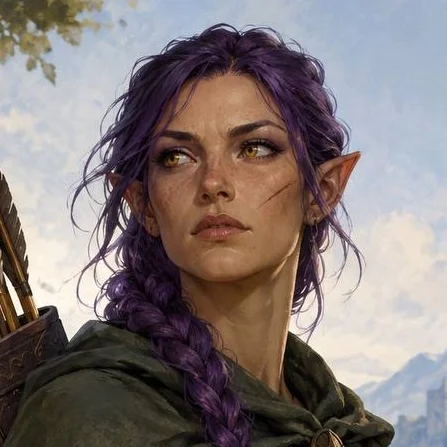
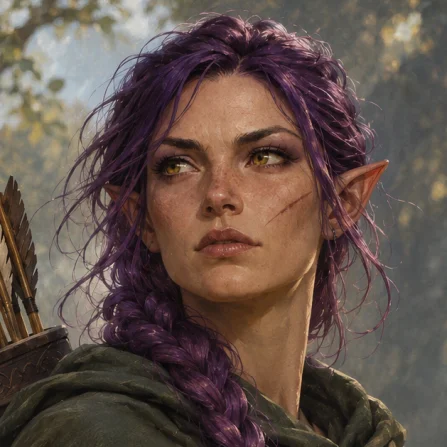
Retinatura a blocchi (meno ricostruzioni nell'editor), niente warning sulla maschera dell'acqua, immagini webp di Anarien e dei famigli, pillola Famiglio rivista

diff --git a/src/app/game/map/wall-hatch.ts b/src/app/game/map/wall-hatch.ts
@@ -1,13 +1,30 @@
-import { Graphics, GraphicsContext } from 'pixi.js';
+import { Container, Graphics, GraphicsContext } from 'pixi.js';
 import { CELL_SIZE, WALL_HATCH, WALL_WIDTH_PX } from '../constants';
 import { LINE, theme } from '../theme';
 
-/** I disegni già calcolati: la retinatura dipende solo dalle caselle dei tile, dalla distanza fra le linee (cioè dallo zoom) e dai colori, quindi si riusa finché non cambiano (l'anteprima di un tile in mano la richiede a ogni movimento). */
-const cache = new Map<string, GraphicsContext>();
+/**
+ * La retinatura è divisa in blocchi di `CHUNK` × `CHUNK` caselle, ognuno con il suo disegno: spostare un tile (l'editor rifà la mappa a ogni movimento del mouse) cambia solo i blocchi
+ * vicini, gli altri riusano il disegno che hanno già, invece di ricostruire decine di migliaia di tratti.
+ */
+const CHUNK = 8;
+/** Un blocco dipende dalle caselle dei tile fino a 2 caselle fuori da sé (il vuoto accanto a un tile, e i tile accanto a quel vuoto). */
+const CHUNK_REACH = 2;
 
-/** I disegni vivi, con le loro caselle: quando lo zoom cambia livello di dettaglio si rimette in ognuno il disegno con le linee giuste. */
+/** I disegni già calcolati: ogni blocco dipende solo dalle sue caselle, dalla distanza fra le linee (cioè dallo zoom) e dai colori, quindi si riusa finché non cambiano. */
+const cache = new Map<string, GraphicsContext>();
+const CACHE_MAX = 600;
+
+interface Chunk {
+  /** Il blocco in caselle: da (x0, y0) incluso a (x1, y1) escluso. */
+  region: { x0: number; y0: number; x1: number; y1: number };
+  /** Le caselle di tile che contano per questo blocco, ordinate (servono per la chiave). */
+  cells: ReadonlySet<string>;
+  id: string;
+}
+
+/** I disegni vivi, con il loro blocco: quando lo zoom cambia livello di dettaglio si rimette in ognuno il disegno con le linee giuste. */
 const live = new Set<Graphics>();
-const sources = new WeakMap<Graphics, ReadonlySet<string>>();
+const sources = new WeakMap<Graphics, Chunk>();
 
 /** Lo zoom di adesso, dato dalla camera (`setHatchZoom`), e quante linee gli corrispondono. */
 let currentSpacing = spacingAt(1);
@@ -35,20 +52,40 @@ export function setHatchZoom(zoom: number) {
 }
 
 function apply(g: Graphics) {
-  const cells = sources.get(g);
-  g.visible = currentSpacing > 0 && !!cells;
-  if (g.visible && cells) g.context = contextFor(cells, currentSpacing);
+  const chunk = sources.get(g);
+  g.visible = currentSpacing > 0 && !!chunk;
+  if (g.visible && chunk) g.context = contextFor(chunk, currentSpacing);
 }
 
-function contextFor(cells: ReadonlySet<string>, spacing: number): GraphicsContext {
-  const key = `${theme.color.linePrimary}|${theme.alpha.wallHatch}|${spacing}|${[...cells].sort().join(';')}`;
+function contextFor(chunk: Chunk, spacing: number): GraphicsContext {
+  const key = `${theme.color.linePrimary}|${theme.alpha.wallHatch}|${spacing}|${chunk.id}|${[...chunk.cells].sort().join(';')}`;
   let ctx = cache.get(key);
   if (!ctx) {
-    ctx = build(cells, spacing);
-    if (cache.size >= 9) cache.delete(cache.keys().next().value!);
+    ctx = build(chunk, spacing);
+    if (cache.size >= CACHE_MAX) cache.delete(cache.keys().next().value!);
     cache.set(key, ctx);
   }
   return ctx;
+}
+
+/** Divide le caselle dei tile nei blocchi che le vedono (una casella conta anche per i blocchi a meno di `CHUNK_REACH` caselle da lei). */
+function chunksOf(cells: ReadonlySet<string>): Chunk[] {
+  const byId = new Map<string, Chunk>();
+  for (const k of cells) {
+    const [cx, cy] = k.split(',').map(Number);
+    for (let bx = Math.floor((cx - CHUNK_REACH) / CHUNK); bx <= Math.floor((cx + CHUNK_REACH) / CHUNK); bx++) {
+      for (let by = Math.floor((cy - CHUNK_REACH) / CHUNK); by <= Math.floor((cy + CHUNK_REACH) / CHUNK); by++) {
+        const id = `${bx},${by}`;
+        let chunk = byId.get(id);
+        if (!chunk) {
+          chunk = { id, region: { x0: bx * CHUNK, y0: by * CHUNK, x1: (bx + 1) * CHUNK, y1: (by + 1) * CHUNK }, cells: new Set<string>() };
+          byId.set(id, chunk);
+        }
+        (chunk.cells as Set<string>).add(k);
+      }
+    }
+  }
+  return [...byId.values()];
 }
 
 /**
@@ -56,16 +93,20 @@ function contextFor(cells: ReadonlySet<string>, spacing: number): GraphicsContex
  * angoli) che dalla faccia esterna del muro arrivano fino alla prima fila di puntini della griglia (a una cella dal bordo del tile) e lì finiscono, sfumando piano. Il risultato è un
  * contorno soffuso che si scioglie nello sfondo a puntini. Sta sotto i muri e si disegna solo nel vuoto accanto alle caselle dei tile (`cells`, chiavi "x,y"); quante linee ha dipende dallo zoom.
  */
-export function drawWallHatch(cells: ReadonlySet<string>): Graphics {
-  const g = new Graphics(contextFor(cells, currentSpacing || WALL_HATCH.lod[WALL_HATCH.lod.length - 1].spacing));
-  sources.set(g, cells);
-  live.add(g);
-  apply(g);
-  return g;
+export function drawWallHatch(cells: ReadonlySet<string>): Container {
+  const root = new Container();
+  for (const chunk of chunksOf(cells)) {
+    const g = new Graphics();
+    sources.set(g, chunk);
+    live.add(g);
+    apply(g);
+    root.addChild(g);
+  }
+  return root;
 }
 
 /** I tratti della retinatura, per livello di opacità (0 il più tenue): x0, y0, x1, y1 in pixel del mondo. */
-export function hatchBatches(cells: ReadonlySet<string>, spacing: number = WALL_HATCH.lod[WALL_HATCH.lod.length - 1].spacing): number[][] {
+export function hatchBatches(cells: ReadonlySet<string>, spacing: number = WALL_HATCH.lod[WALL_HATCH.lod.length - 1].spacing, region?: Chunk['region']): number[][] {
   const has = (x: number, y: number) => cells.has(`${x},${y}`);
   const { step, levels } = WALL_HATCH;
   const C = CELL_SIZE;
@@ -83,6 +124,7 @@ export function hatchBatches(cells: ReadonlySet<string>, spacing: number = WALL_
 
   for (const k of voids) {
     const [vx, vy] = k.split(',').map(Number);
+    if (region && (vx < region.x0 || vx >= region.x1 || vy < region.y0 || vy >= region.y1)) continue; // di un altro blocco
     // Le caselle di tile intorno: oltre queste, la distanza dal tile è già maggiore di una cella.
     const near: [number, number][] = [];
     for (let dy = -1; dy <= 1; dy++) for (let dx = -1; dx <= 1; dx++) if (has(vx + dx, vy + dy)) near.push([(vx + dx) * C, (vy + dy) * C]);
@@ -125,10 +167,10 @@ export function hatchBatches(cells: ReadonlySet<string>, spacing: number = WALL_
   return batches;
 }
 
-function build(cells: ReadonlySet<string>, spacing: number): GraphicsContext {
+function build(chunk: Chunk, spacing: number): GraphicsContext {
   const g = new Graphics();
   const { levels } = WALL_HATCH;
-  const batches = hatchBatches(cells, spacing);
+  const batches = hatchBatches(chunk.cells, spacing, chunk.region);
   for (let level = 0; level < levels; level++) {
     const seg = batches[level];
     if (!seg.length) continue;

diff --git a/src/app/ui/familiar-pill.component.ts b/src/app/ui/familiar-pill.component.ts
@@ -4,26 +4,26 @@ import { TranslatePipe } from '../i18n/translate.pipe';
 import { PictureComponent } from './picture.component';
 
 /**
- * La pillola "Famiglio" delle card degli eroi che ne hanno uno: bordo del colore dei famigli (`--c-familiar`), la parola tutta a sinistra e, sopra la pillola, tutto a destra, il segnalino
- * tondo del famiglio (con il suo contorno azzurro). Chi la usa la posiziona.
+ * La pillola "Famiglio" delle card degli eroi che ne hanno uno: bordo del colore dei famigli (`--c-familiar`), il segnalino tondo del famiglio (con il suo contorno azzurro) sopra la pillola, tutto a sinistra, e la parola "Famiglio", azzurra, a destra. Chi la usa la posiziona.
  */
 @Component({
   selector: 'app-familiar-pill',
   imports: [TranslatePipe, PictureComponent],
   changeDetection: ChangeDetectionStrategy.OnPush,
   template: `
-    <span class="label">{{ (familiars().length > 1 ? 'familiar.many' : 'familiar.one') | t }}</span>
     <span class="tokens">
       @for (f of familiars(); track f.id) {
         <span class="token" [title]="f.name"><app-picture [src]="f.image" icon="pets" [iconSize]="16" /></span>
       }
     </span>
+    <span class="label">{{ (familiars().length > 1 ? 'familiar.many' : 'familiar.one') | t }}</span>
   `,
   styles: `
-    :host { position: relative; display: flex; align-items: center; justify-content: space-between; box-sizing: border-box; height: 30px; padding: 0 0 0 12px; border-radius: var(--radius-1); background: var(--c-bg); border: 1px solid var(--c-familiar); color: var(--c-text); font: 600 12px/1 var(--font-ui); letter-spacing: 0; text-transform: none; }
-    .tokens { display: inline-flex; flex-direction: row-reverse; margin-right: 6px; }
+    :host { position: relative; display: flex; align-items: center; justify-content: space-between; box-sizing: border-box; height: 30px; padding: 0 12px 0 0; border-radius: var(--radius-1); background: var(--c-bg); border: 1px solid var(--c-familiar); color: var(--c-familiar); font: 600 12px/1 var(--font-ui); letter-spacing: 0; text-transform: none; }
+    .label { color: var(--c-familiar); }
+    .tokens { display: inline-flex; flex-direction: row; margin-left: 6px; }
     /* Il segnalino sporge un po' sopra e sotto la pillola. */
-    .token { width: 40px; height: 40px; margin-left: -14px; border-radius: var(--radius-round); overflow: hidden; box-sizing: border-box; border: 2px solid var(--c-familiar); background: var(--c-surface); box-shadow: 0 2px 6px rgba(0, 0, 0, 0.6); display: block; }
+    .token { width: 40px; height: 40px; margin-left: -14px; border-radius: var(--radius-round); overflow: hidden; box-sizing: border-box; border: 1px solid var(--c-familiar); background: var(--c-surface); box-shadow: 0 2px 6px rgba(0, 0, 0, 0.6); display: block; }
     .token:first-child { margin-left: 0; }
   `,
 })

diff --git a/src/app/editor/map-layer.ts b/src/app/editor/map-layer.ts
@@ -174,7 +174,7 @@ export class EditorMapLayer {
         const c = { x: (t.x + t.def.size.w / 2) * CELL_SIZE, y: (t.y + t.def.size.h / 2) * CELL_SIZE };
         addItem(group, 0, REVEAL.tileItemMs, true, c, Math.hypot(c.x - center.x, c.y - center.y));
       });
-      parts.hatch.destroy(); // la retinatura non fa parte dell'animazione delle tessere: torna con il disegno unico
+      parts.hatch.destroy({ children: true }); // la retinatura non fa parte dell'animazione delle tessere: torna con il disegno unico
       this.container.addChildAt(tilesLayer, 0);
       this.holder.visible = false; // il disegno unico torna a fine animazione delle tessere
     }
@@ -184,7 +184,11 @@ export class EditorMapLayer {
     const roots = this.container.children.filter((c) => c !== this.holder && c !== tilesLayer && !previews.has(c));
     const tokensStart = REVEAL.tileSpreadMs + REVEAL.tileItemMs;
     for (const node of roots.flatMap((r) => (r.children.length ? r.children : [r])).filter((n) => !n.destroyed)) {
+      // Un nodo con la maschera fuori da sé (la campitura dell'acqua) farebbe avvisare Pixi: le misure si prendono senza maschera.
+      const mask = node.mask;
+      node.mask = null;
       const b = node.getLocalBounds();
+      node.mask = mask;
       if (b.width <= 0 && b.height <= 0) continue; // vuoto (un'anteprima, un livello senza niente)
       const c = { x: b.x + b.width / 2, y: b.y + b.height / 2 };
       const dist = Math.hypot(node.x + c.x - center.x, node.y + c.y - center.y);

diff --git a/src/app/game/map/map-view.ts b/src/app/game/map/map-view.ts
@@ -70,11 +70,11 @@ export function createMapParts(
   noCracks?: ReadonlySet<string>,
   extraWalls: readonly WallSegment[] = [],
   scenery: SceneryContext = {},
-): { floors: Graphics[]; sceneries: Container[]; walls: Graphics; hatch: Graphics } {
+): { floors: Graphics[]; sceneries: Container[]; walls: Graphics; hatch: Container } {
   const { walls, passages } = buildWalls(placed);
   const cells = allCells(placed);
   return {
-    hatch: WALL_HATCH.enabled ? drawWallHatch(cells) : new Graphics(),
+    hatch: WALL_HATCH.enabled ? drawWallHatch(cells) : new Container(),
     floors: placed.map((tile) => drawFloor(tile, seed, tile === highlight, noCracks)),
     sceneries: placed.map((tile) => drawScenery(tile, seed, { skip: noCracks, ...scenery })),
     walls: drawWalls({ walls, passages }, extraWalls, PERIMETER_WALLS_OUTSIDE ? cells : null),

diff --git a/CLAUDE.md b/CLAUDE.md
@@ -57,7 +57,7 @@ Le immagini di riferimento servono solo come ispirazione di stile: mai ricalcarl
 - Regole in `docs/REGOLE.md`, sezione 2g. **Non sono pedine**: stanno in `GameState.familiars` (`Familiar` `{id, owner, cell}`, `game/familiars/familiar.ts`, salvati nello snapshot) e le loro schede in `GameState.familiarDefs` (`public/familiars/<id>.json`, elencate in `index.json`: `id`, `name`, `speed`, `image`, `abilityName?`, `ability?`; francor, nero (il Corvo, era Boggs), ying e yang (due gatti, erano Mata e Kata, con la stessa immagine `portrait` ma due segnalini); velocità e testi provvisori, tranne i gatti a 6). Così non bloccano, non si attaccano e non contano come eroi senza codice in più.
 - Arrivano da un effetto `{ "kind": "familiar", "ids": [...] }` nella scheda dell'eroe (Francor per Emeraldine) o in una carta abilità (Boggs, Mata e Kata): `spawnFamiliars` (`state/familiars.ts`, a ogni `showHud` quando la partita è cominciata) li mette nella casella del padrone. Dopo il turno di un eroe (`pass` in `game-scene`) si sposta ognuno dei suoi famigli (`familiarPhase`): area di movimento come quella degli eroi ma azzurra (`FamiliarsView.showReach`: solo il contorno che pulsa piano, al passaggio del mouse il percorso; `familiarReach`: `reachable` senza nemici come ostacolo, senza salti, con le scale a costo 0), tocco sulla casella o "Passa" (anche il tasto Invio); solo caselle già esplorate. A inizio turno del famiglio la camera si sposta su di lui (solo il pan, `focusCell`) e mentre cammina lo segue come con un eroe (`FamiliarsView.movingWorldPos`). Il messaggio è `app-familiar-bar` (`ui/familiar-bar.component.ts`): stesso posto e stessa larghezza dei comandi dell'eroe (che intanto si nascondono), bordo del colore dei famigli, tasto Passa con l'icona di quello degli eroi.
 - Grafica: `FamiliarsView` (`game/familiars/familiars-view.ts`, sopra le pedine): tondo con contorno azzurro (`color.familiar`, `--c-familiar`) se solo nella casella, in più disposti da `familiarSlots` (2 affiancati, 3 a triangolo, 4 in griglia, 5+ con "+N"; con una pedina sopra, una colonna di badge a sinistra). Nella scheda dell'eroe la sezione "Famigli" mostra una card per famiglio (`app-familiar-card`: immagine, nome, velocità e descrizione dell'abilità; i portati come Zanna per primi), e nel catalogo componenti la categoria "Famigli" (`app-familiar-card`).
-- Una carta eroe che dà un famiglio (scheda con effetto `familiar`: Emeraldine) lo mostra già nella scelta degli eroi e nella sala d'attesa: `app-familiar-pill` (`ui/familiar-pill.component.ts`), una pillola con il bordo `--c-familiar`, la scritta "Famiglio" a sinistra e, sopra, a destra, il segnalino tondo; sta sopra la riga dei valori in basso (`familiarsOfSheet`). Le immagini dei famigli sono in `public/familiars/<id>-token.webp` (quadrata) e `-portrait.webp`; quelle di Francor sono provvisorie.
+- Una carta eroe che dà un famiglio (scheda con effetto `familiar`: Emeraldine) lo mostra già nella scelta degli eroi e nella sala d'attesa: `app-familiar-pill` (`ui/familiar-pill.component.ts`), una pillola con il bordo `--c-familiar`, il segnalino tondo a sinistra, sopra, e la scritta "Famiglio" azzurra a destra; sta sopra la riga dei valori in basso (`familiarsOfSheet`). Le immagini dei famigli sono in `public/familiars/<id>-token.webp` (quadrata) e `-portrait.webp`; quelle di Francor sono provvisorie.
 - Eccezioni a dati (`effects` della scheda, `familiarHas`): `summonSight` (Francor: `familiarSightCells` in `summonCells`), `fly` + `weaken` (Nero: `familiarReach` con `passThrough`, `weakening` in `armorOf`, nell'attacco mirato e in Schivare), `carry` (Ying e Yang: `state/familiar-carry.ts`, menu contestuale del famiglio con Raccogli, Dai a, Lascia a terra; ogni azione costa 1 punto del famiglio, lo spostamento ha come punti la velocità). Nessun limite di famigli per casella: la disposizione grafica è in `familiarSlots` (`familiars-view.ts`; vedi REGOLE.md 2g). **Famigli portati** (Zanna, carta di Combattimento con effetto `startItem`): oggetto trasportato (`carried`, `slotless`, `giveCost` 2, effetto `onHit` Bruciare in `applyAttack`) con scheda famiglio collegata (`FamiliarDef.item`); `FamiliarsView` li mostra come primo famiglio nella casella di chi li porta e ne segue la pedina (`PiecesController.worldPosOf`), e nella scheda dell'eroe sono i primi dell'elenco. Un famiglio "da trasportare" che dà un dado potere in più è l'alternativa scartata per ora.
 
 ## Ruoli
@@ -175,7 +175,7 @@ Aspetto da disegno tecnico: una mappa CAD, come un blueprint su una tavola lumin
   contorno sottile. Uno dei pochi elementi colorati, perché è interagibile.
 - Muro: doppia linea chiara sottile con un vuoto scuro in mezzo, spesso. Non deve sembrare fatto
   di mattoni. Gli angoli sono pieni (la linea sporge a coprire lo spigolo).
-  **Retinatura di contorno** (`map/wall-hatch.ts`, `WALL_HATCH` in `constants.ts`, token `alpha.wallHatch`): fuori dai muri perimetrali, linee sottilissime oblique (45°, `x + y = s`, una ogni `spacing` = 9 px, allineate al mondo così proseguono uguali attorno agli angoli) che dalla faccia esterna del muro arrivano fino alla **prima fila di puntini della griglia** (a una cella dal bordo del tile) e lì finiscono; l'opacità sfuma in `levels` = 6 gradini dal muro ai puntini, così il contorno è soffuso e si scioglie nello sfondo a puntini, come nei disegni architettonici. Si calcola per le caselle vuote accanto (anche in diagonale) a un tile, misurando la distanza dal tile più vicino a pezzetti di 4 px; sta sotto i muri (`createMapParts().hatch`) e il disegno si riusa finché le caselle e i colori non cambiano (`GraphicsContext` in cache: l'anteprima di un tile in mano lo chiede a ogni movimento). Non c'è dove i muri sono condivisi, né sulle scale e i muri d'autore. `WALL_HATCH.enabled` a `false` la spegne. **Dipende dallo zoom, con più livelli di dettaglio** (`WALL_HATCH.lod`, `setHatchZoom` in `map/wall-hatch.ts`, chiamata dalla camera dell'editor e da quella della partita ogni volta che cambia la scala del mondo): sotto zoom 0,4 non ci sono linee, da 0,4 una ogni 36 px, da 0,6 una ogni 18, da 0,85 una ogni 9 (ogni livello contiene le linee di quello prima); si cambia disegno solo passando da un livello all'altro (i `GraphicsContext` sono in cache per livello e quelli vivi vengono aggiornati). Lo zoom lo dà la camera, non il disegno, così un disegno nuovo (l'editor li rifà a ogni movimento del mouse) parte già col livello giusto e da lontano non lampeggia. Ancora da fare: in partita disegnarla solo accanto alle caselle esplorate (oggi si vede anche attorno a quelle non esplorate).
+  **Retinatura di contorno** (`map/wall-hatch.ts`, `WALL_HATCH` in `constants.ts`, token `alpha.wallHatch`): fuori dai muri perimetrali, linee sottilissime oblique (45°, `x + y = s`, una ogni `spacing` = 9 px, allineate al mondo così proseguono uguali attorno agli angoli) che dalla faccia esterna del muro arrivano fino alla **prima fila di puntini della griglia** (a una cella dal bordo del tile) e lì finiscono; l'opacità sfuma in `levels` = 6 gradini dal muro ai puntini, così il contorno è soffuso e si scioglie nello sfondo a puntini, come nei disegni architettonici. Si calcola per le caselle vuote accanto (anche in diagonale) a un tile, misurando la distanza dal tile più vicino a pezzetti di 4 px; sta sotto i muri (`createMapParts().hatch`) e il disegno si riusa finché le caselle e i colori non cambiano (`GraphicsContext` in cache: l'anteprima di un tile in mano lo chiede a ogni movimento). Non c'è dove i muri sono condivisi, né sulle scale e i muri d'autore. `WALL_HATCH.enabled` a `false` la spegne. **Dipende dallo zoom, con più livelli di dettaglio** (`WALL_HATCH.lod`, `setHatchZoom` in `map/wall-hatch.ts`, chiamata dalla camera dell'editor e da quella della partita ogni volta che cambia la scala del mondo): sotto zoom 0,4 non ci sono linee, da 0,4 una ogni 36 px, da 0,6 una ogni 18, da 0,85 una ogni 9 (ogni livello contiene le linee di quello prima); si cambia disegno solo passando da un livello all'altro (la retinatura è divisa in blocchi di 8×8 caselle, ognuno con il suo `GraphicsContext` in cache per livello e per contenuto: spostare un tile in mano ricostruisce solo i blocchi vicini, non decine di migliaia di tratti; quelli vivi vengono aggiornati al cambio di livello). Lo zoom lo dà la camera, non il disegno, così un disegno nuovo (l'editor li rifà a ogni movimento del mouse) parte già col livello giusto e da lontano non lampeggia. Ancora da fare: in partita disegnarla solo accanto alle caselle esplorate (oggi si vede anche attorno a quelle non esplorate).
   **Esperimento in corso** (`PERIMETER_WALLS_OUTSIDE` in `constants.ts`, `outsideWalls` in `map/map-view.ts`; `false` ripristina il disegno di prima): i muri perimetrali, cioè quelli di un lato di cella che guarda il vuoto, si disegnano tutti fuori dal bordo (faccia interna sul bordo della cella), così una casella d'angolo ha lo spazio libero simmetrico e un token tondo non sembra decentrato; restano centrati sulla linea i muri condivisi fra tile, i cardini delle porte (stipiti), i muri delle scale e quelli d'autore. I lati perimetrali consecutivi si uniscono e agli estremi il muro si allunga (angolo convesso) o si accorcia (concavo) di mezzo spessore. Movimento e vista non cambiano (usano le linee della griglia). Adattato: il contorno dell'area di movimento; **gli stipiti dei varchi** attaccati a un muro perimetrale si spostano con lui e **la porta** sta a metà fra i due stipiti (`passageShifts` in `map/walls.ts`, `Board.doorShiftPx`, usati da `drawWalls` e da `DoorView` per i lati, l'anta, l'icona della serratura e l'anteprima), così non c'è più il gradino, e **la base di ogni stipite entra di mezzo spessore nel muro perimetrale perpendicolare** (`endPerpSide`, `passageShifts.baseStart/baseEnd`), così le linee si fondono con il muro; **un varco o una porta ha una sola linea**: se un solo estremo ha un muro perimetrale sulla stessa linea e l'altro finisce contro un muro perpendicolare, stipiti e porta seguono quel muro tutti e due (`passageShifts`: `endWallSide` distingue "muro perimetrale su un lato", "condiviso" e "nessun muro sulla linea"); **stile universale delle porte**: gli stipiti sono lunghi 10 px (`JAMB_POST_LENGTH_PX`, la metà di prima) e li hanno **tutte** le porte, anche quelle che non stanno su un varco (`Board.hasJambPosts` vale per tutte tranne che per i punti morti; per quelle fuori da un varco li disegna `wallPieces` a partire dai tratti `WallSegment.doorPosts` di `Board.looseDoorPosts`, passati insieme ai muri d'autore e delle scale, e in partita solo per le porte già scoperte); la porta arriva quindi sempre alla punta degli stipiti (`DoorView.span`; `Board.doorEndAtOuterWall` resta per il caso di un punto morto); **i muri condivisi** che finiscono contro il vuoto da tutti e due i lati si allungano di uno spessore intero per arrivare alla faccia esterna dei muri perimetrali (`outsideWalls`); **acqua e buche** contro un muro perimetrale arrivano fino al bordo della casella (`insetFor`, `Board.isVoidSide`, `ObstacleView.wallOutside`: il margine di 7 px resta sugli altri lati, anche contro i muri condivisi). **Colonne** (`PERIMETER_PILLARS` in `constants.ts`, `WallPiece.box` in `outsideWalls`): nei vertici dove un muro condiviso (centrato sulla linea) incontra uno perimetrale (fuori) i due non combaciano e resta un buco o un gradino di mezzo spessore, quindi lì si disegna una colonna finta, una sola, grande quanto basta per comprendere tutte le pareti che arrivano (il quadrato di uno spessore centrato sul vertice, più mezzo spessore verso fuori per ogni muro perimetrale), disegnata come un muro (fascia chiara e striscia scura dentro) così si fonde con quelli che la toccano; solo cosmetica. Gli angoli del rettangolo che sporgerebbero nel pavimento sono tagliati a 45° (`PERIMETER_PILLAR_CHAMFER`, `WallPiece.cuts`: un collegamento obliquo fra le due pareti invece del gradino; `false` li lascia quadrati). **Giunto obliquo** (`PERIMETER_DIAGONAL_JOINTS`, `diagonalOf` e `WallPiece.shape` in `outsideWalls`): dove due tile si toccano solo d'angolo (le uniche due caselle intorno al vertice sono in diagonale) i due angoli convessi si sovrapponevano e lasciavano un quadratino con un buco; ora i quattro muri che arrivano si fermano mezzo spessore prima del vertice e un solo pezzo disegna il resto: i due angoli di pavimento sono tagliati a 45° e i muri dei due vuoti si uniscono con una fascia diagonale larga quanto un muro (fascia chiara attorno, striscia scura dentro che continua nei muri). `false` torna ai due angoli sovrapposti. Non c'è dove un perimetrale passa dritto da un lato all'altro (un tramezzo che lo incontra: i muri si saldano già). Ancora da adattare se l'esperimento piace: il velo delle caselle non esplorate (non copre i muri esterni), ragnatele e glifi. Il disegno dei pezzi è in `wallPieces` (esportata, per poterlo verificare senza Pixi).
 - Varco fra due aree distinte (stanza, corridoio, ...): ai due lati sporge un piccolo blocco (stipite),
   nello stesso stile del muro, chiuso su tre lati (sopra, sotto e in punta). Serve a riconoscere il
